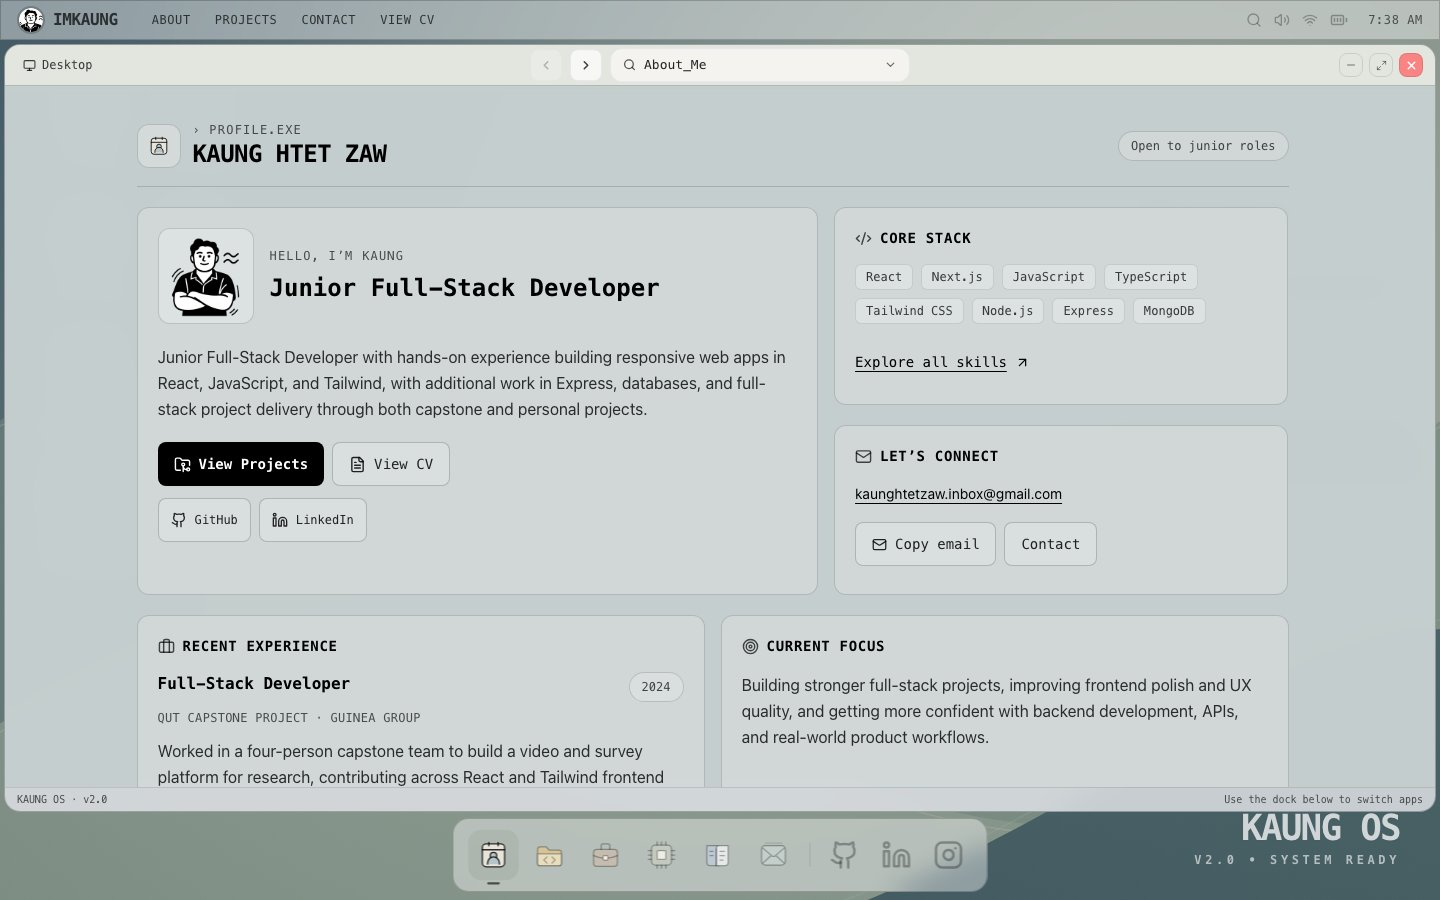
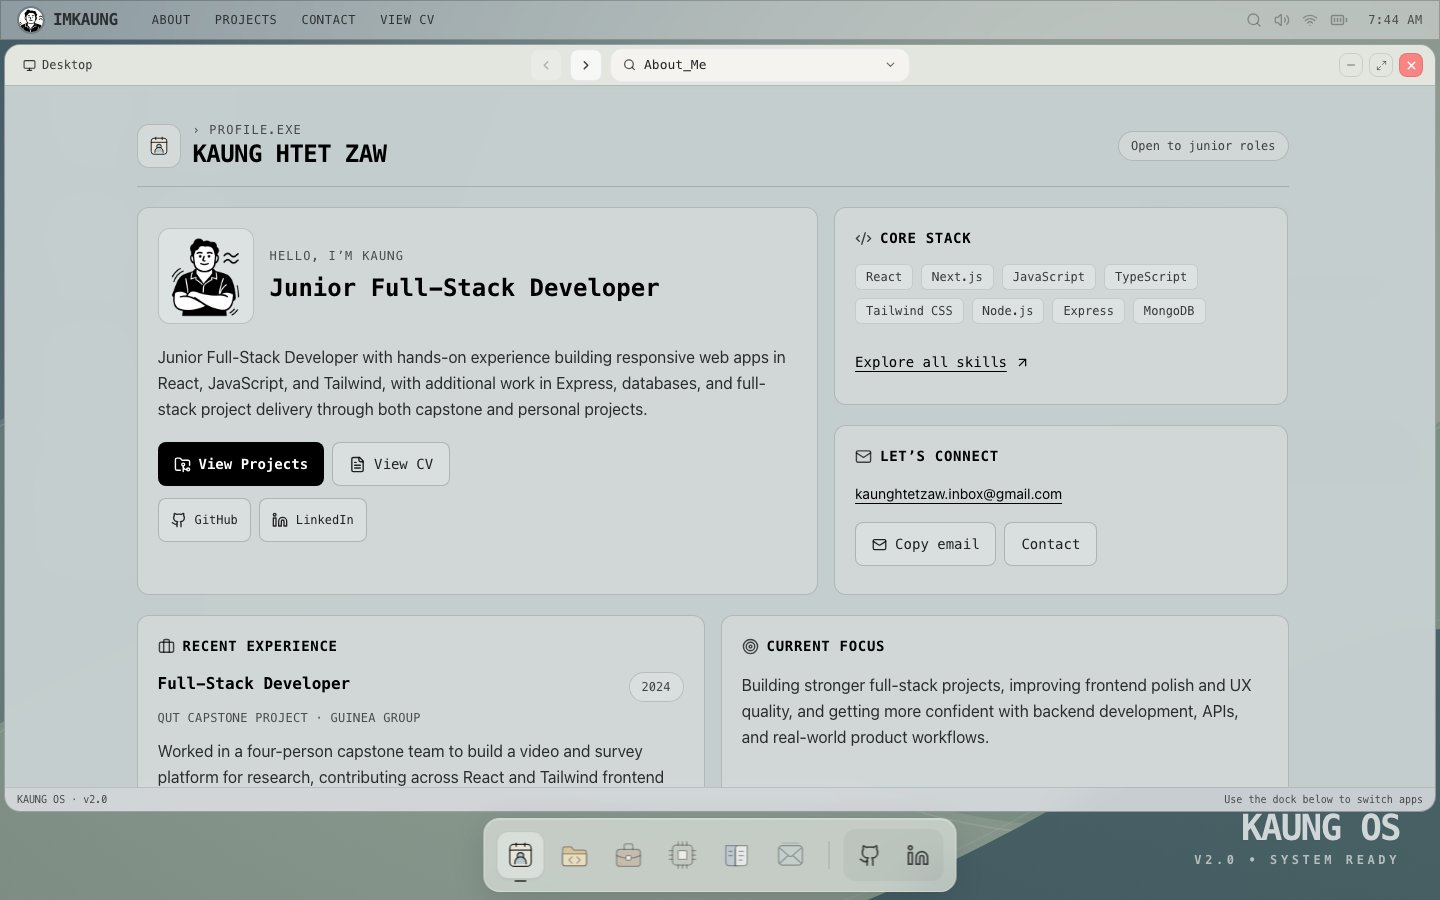
Refine the dock and keep only professional profile shortcuts

Changed region(s): [[0.3125, 0.9022, 0.6875, 0.9956]]

diff --git a/src/components/os/StatusBar.jsx b/src/components/os/StatusBar.jsx
@@ -1,6 +1,6 @@
 import React, { useState } from "react";
 import LinkConfirmationModal from "./LinkConfirmationModal";
-import { Github, Linkedin, Instagram } from "lucide-react";
+import { Github, Linkedin } from "lucide-react";
 
 export default function StatusBar({
   apps = {},
@@ -10,7 +10,6 @@ export default function StatusBar({
   onOpenApp,
   onFocusWindow,
   onMinimizeWindow,
-  isTablet = false,
 }) {
   const [activeLinkData, setActiveLinkData] = useState(null);
   const openWindowIds = new Set(openWindows.map((win) => win.id));
@@ -23,7 +22,7 @@ export default function StatusBar({
       />
 
       <div role="navigation" aria-label="App dock" className="fixed bottom-2 left-1/2 -translate-x-1/2 z-[9999] flex items-end select-none w-max max-w-[95vw]">
-        <div className="flex items-center os-panel rounded-2xl overflow-x-auto no-scrollbar px-4 py-3 gap-2">
+        <div className="flex items-center gap-1.5 overflow-x-auto rounded-2xl border border-white/30 bg-[#d8dfd8]/75 px-3 py-2.5 shadow-[0_8px_32px_rgba(20,36,43,0.16),inset_0_1px_0_rgba(255,255,255,0.25)] backdrop-blur-xl">
           {/* 1. APPS */}
           {appOrder.map((appId) => {
             const app = apps[appId];
@@ -59,10 +58,10 @@ export default function StatusBar({
                       : `Open ${app.title} window`
                 }
                 title={app.title}
-                className={`relative shrink-0 w-12 h-12 flex items-center justify-center rounded-xl transition-all ${
+                className={`group relative shrink-0 w-12 h-12 flex items-center justify-center rounded-xl border transition-colors ${
                   isActive
-                    ? "bg-black/5 scale-105"
-                    : "bg-transparent hover:bg-black/5 hover:scale-105"
+                    ? "border-black/10 bg-white/35 shadow-sm"
+                    : "border-transparent bg-transparent hover:border-black/10 hover:bg-white/25"
                 }`}
               >
                 {isLucideIcon ? (
@@ -103,76 +102,18 @@ export default function StatusBar({
             );
           })}
 
-          {/* DIVIDER */}
-          {appOrder.length > 0 && (
-            <div className="h-6 w-[1px] bg-black/10 mx-1 shrink-0"></div>
-          )}
-
-          {/* 2. SOCIALS */}
-          <div className="flex gap-2 shrink-0">
-            {!isTablet && (
-              <>
-                {/* GITHUB */}
-                <button
-                  onClick={() =>
-                    setActiveLinkData({
-                      title: "GitHub",
-                      href: "https://github.com/kaung-h-zaw",
-                      icon: Github,
-                    })
-                  }
-                  type="button"
-                  aria-label="Open GitHub profile"
-                  className="w-11 h-11 bg-transparent flex items-center justify-center rounded-xl hover:bg-black/5 hover:scale-105 transition-all group"
-                >
-                  <Github
-                    size={30}
-                    strokeWidth={2}
-                    className="text-black/30 group-hover:text-black/60 transition-all"
-                  />
-                </button>
-
-                {/* LINKEDIN */}
-                <button
-                  onClick={() =>
-                    setActiveLinkData({
-                      title: "LinkedIn",
-                      href: "https://linkedin.com/in/kaung-h-zaw",
-                      icon: Linkedin,
-                    })
-                  }
-                  type="button"
-                  aria-label="Open LinkedIn profile"
-                  className="w-11 h-11 bg-transparent flex items-center justify-center rounded-xl hover:bg-black/5 hover:scale-105 transition-all group"
-                >
-                  <Linkedin
-                    size={30}
-                    strokeWidth={2}
-                    className="text-black/30 group-hover:text-black/60 transition-all"
-                  />
-                </button>
-              </>
-            )}
-
-            {/* INSTAGRAM */}
-            <button
-              onClick={() =>
-                setActiveLinkData({
-                  title: "Instagram",
-                  href: "https://www.instagram.com/kaung.h.zaw/",
-                  icon: Instagram,
-                })
-              }
-              type="button"
-              aria-label="Open Instagram profile"
-              className="w-11 h-11 bg-transparent flex items-center justify-center rounded-xl hover:bg-black/5 hover:scale-105 transition-all group"
-            >
-              <Instagram
-                size={30}
-                strokeWidth={2}
-                className="text-black/30 group-hover:text-black/60 transition-all"
-              />
-            </button>
+          {appOrder.length > 0 && <div className="mx-2 h-7 w-px shrink-0 bg-black/15" aria-hidden="true" />}
+          <div role="group" aria-label="Professional profiles" className="flex shrink-0 gap-1 rounded-xl bg-black/[0.04] p-1">
+            {[
+              { title: "GitHub", href: "https://github.com/kaung-h-zaw", icon: Github },
+              { title: "LinkedIn", href: "https://linkedin.com/in/kaung-h-zaw", icon: Linkedin },
+            ].map((profile) => (
+              <button key={profile.title} type="button" onClick={() => setActiveLinkData(profile)}
+                aria-label={`Open ${profile.title} profile`} title={`${profile.title} · opens in a new tab`}
+                className="flex h-11 w-11 items-center justify-center rounded-lg border border-transparent text-black/65 transition-colors hover:border-black/10 hover:bg-white/40 hover:text-black">
+                <profile.icon size={23} strokeWidth={1.8} aria-hidden="true" />
+              </button>
+            ))}
           </div>
         </div>
       </div>

diff --git a/tests/e2e/portfolio.spec.js b/tests/e2e/portfolio.spec.js
@@ -310,3 +310,21 @@ test("wide monitors open a centered window with working maximize and restore", a
   await expect(page.getByRole("button", { name: "Maximize window", exact: true })).toBeVisible();
   await expect.poll(async () => Math.round((await appWindow.boundingBox()).width)).toBe(1400);
 });
+
+
+test("dock groups GitHub and LinkedIn without Instagram", async ({ page }, testInfo) => {
+  test.skip(testInfo.project.name === "phone", "Phone uses its home screen instead of a dock");
+  await visit(page);
+  const dock = page.getByRole("navigation", { name: "App dock", exact: true });
+  const profiles = dock.getByRole("group", { name: "Professional profiles", exact: true });
+  await expect(profiles.getByRole("button")).toHaveCount(2);
+  await expect(dock.getByRole("button", { name: /Instagram/ })).toHaveCount(0);
+  for (const name of ["GitHub", "LinkedIn"]) {
+    const button = profiles.getByRole("button", { name: `Open ${name} profile`, exact: true });
+    await expect(button).toBeInViewport({ ratio: 1 });
+    await button.click();
+    await expect(page.getByRole("dialog").getByRole("heading", { name: `Open ${name}?`, exact: true })).toBeVisible();
+    await page.keyboard.press("Escape");
+    await expect(button).toBeFocused();
+  }
+});
